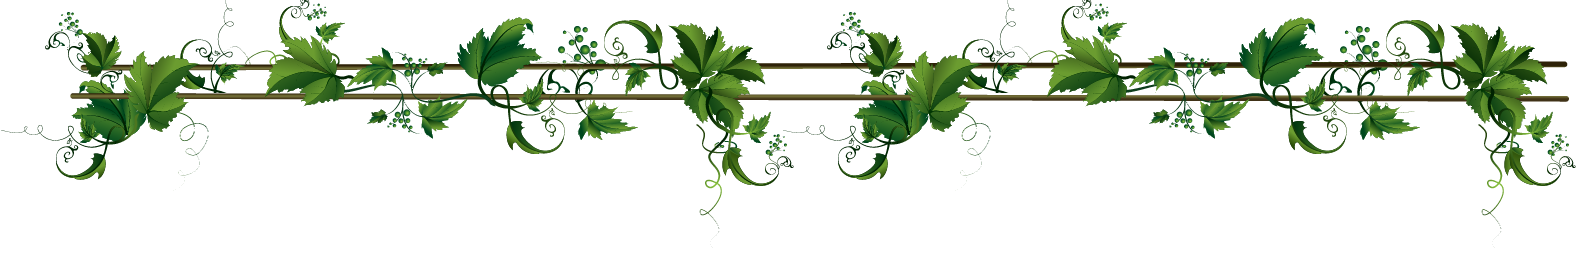
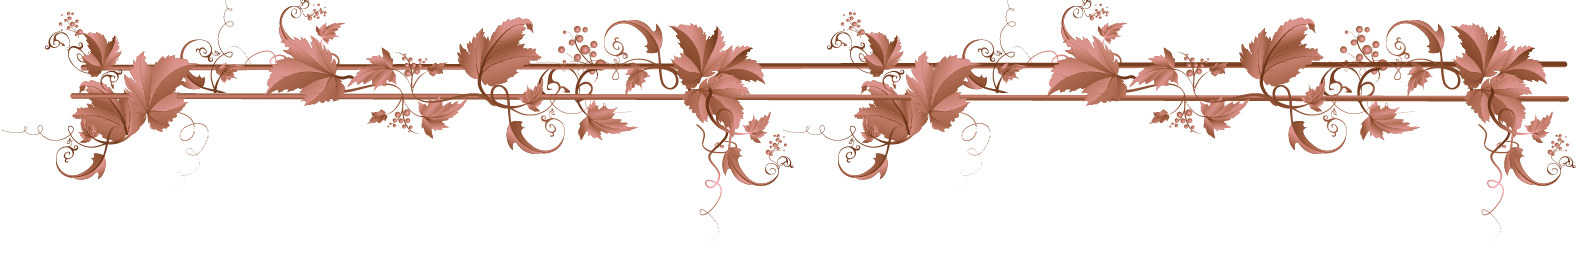
style: styled homepage and changed webpage theme

Changed region(s): [[0.0, 0.0, 1.0, 0.75]]

diff --git a/src/Containers/WelcomeScreen/WelcomeScreen.js b/src/Containers/WelcomeScreen/WelcomeScreen.js
@@ -1,11 +1,10 @@
 import React, { Component } from 'react'
 import Aux from '../../hoc/Aux'
 import './WelcomeScreen.css'
-import orange1 from '../../assets/pictures/green.png'
-import orange2 from '../../assets/pictures/orange.png'
-import orange3 from '../../assets/pictures/yellow.png'
-import background from '../../assets/pictures/background4.png'
-import Logo from '../../Components/Logo/Logo'
+import favourite from '../../assets/pictures/favouriteflower.png'
+import brown from '../../assets/pictures/brownflower.png'
+import newrecipe from '../../assets/pictures/newrecipe.png'
+import background from '../../assets/pictures/background8.jpeg'
 
 class Homescreen extends Component {
   goToCategories = () => {
@@ -19,14 +18,13 @@ class Homescreen extends Component {
   render() {
     return (
       <Aux>
-        <Logo screen='homepage'/>
         <div className="bg-color">
           <img src={background} alt="bg" className="bg"></img>
         </div>
         <div className='Homescreen'>
-          <div className='Button1' onClick={this.goToCategories}><img src={orange2} alt='bg'/></div>
-          <div className='Button2' ><img src={orange1} alt='bg'/></div>
-          <div className='Button3' onClick={this.goToAddRecipe}><img src={orange3} alt='bg'/></div>
+          <div className='Button1' onClick={this.goToCategories}><img src={brown} alt='bg'/></div>
+          <div className='Button2' ><img src={favourite} alt='bg'/></div>
+          <div className='Button3' onClick={this.goToAddRecipe}><img src={newrecipe} alt='bg'/></div>
         </div>
       </Aux>
     )

diff --git a/src/Components/Recipe/Recipe.css b/src/Components/Recipe/Recipe.css
@@ -2,7 +2,7 @@
   display: inline-block;
   width: 880px;
   height: 680px;
-  background-color: ivory;
+  background-color: rgb(245, 211, 197);
   border: 2px #eee;
   box-shadow: 0 12px 30px black;
   padding: 6px;
@@ -16,7 +16,7 @@
   display: inline-block;
   width: 880px;
   height: 72px;
-  background-color: ivory;
+  background-color: rgb(245, 211, 197);
   border: 2px #eee;
   box-shadow: 0 12px 30px black;
   padding: 6px;
@@ -39,7 +39,7 @@
   font-size: 20px;
   display: inline-block;
   width: 40%;
-  background-color: ivory;
+  background-color: rgb(245, 211, 197);
   border: 2px #eee;
   box-shadow: 0 12px 30px black;
   padding: 6px;
@@ -110,7 +110,7 @@
   font-size: 20px;
   display: inline-block;
   width: 40%;
-  background-color: ivory;
+  background-color: rgb(245, 211, 197);
   border: 2px #eee;
   box-shadow: 0 12px 30px black;
   padding: 6px;

diff --git a/src/Components/Navigation/NavigationItems/NavigationItem/NavigationItem.css b/src/Components/Navigation/NavigationItems/NavigationItem/NavigationItem.css
@@ -27,7 +27,7 @@
     height: 100%;
     width: auto;
     align-items: center;
-    font-size: larger;
+    font-size: 20px;
     font-family: monospace;
   }
 
@@ -36,13 +36,20 @@
     height: 100%;
     padding: 34px 10px;
     border-bottom: 4px solid transparent;
+    font-size: 24px;
+    font-family: Cambria, Cochin, Georgia, Times, 'Times New Roman', serif;
   }
 
-  .NavigationItem a:hover,
+  .NavigationItem a:hover {
+    background-color: rgb(245, 211, 197);
+  }
   .NavigationItem a:active,
   .NavigationItem a.active {
-    background-color: darkgreen;
-    border-bottom: 4px solid rgb(8, 11, 12);
+    background-image: url('../../../../assets/pictures/itemBorder.png');
+    background-size: cover;
+    background-repeat: no-repeat;
+    background-color: rgb(245, 211, 197);
+    border-bottom: 2px solid rgb(231, 117, 72);
     color: white;
   }
 }

diff --git a/src/Containers/DishCategory/DishCategory.js b/src/Containers/DishCategory/DishCategory.js
@@ -2,8 +2,7 @@ import React, { Component } from 'react'
 import Category from '../../Components/DishCategories/Category/Category'
 import Aux from '../../hoc/Aux'
 import Card from '../../Components/UI/Card/Card'
-import background from '../../assets/pictures/background7.png'
-import Logo from '../../Components/Logo/Logo'
+import background from '../../assets/pictures/background8.jpeg'
 import axios from '../../axios-recipes'
 import './DishCategory.css'
 
@@ -77,7 +76,6 @@ class DishCategory extends Component {
 
     return (
       <Aux>
-        <Logo screen='categories' style={{marginTop: '2px', marginLeft: '9px'}}/>
         <div className="bg-color">
           <img src={background} alt="bg" className="bg"></img>
         </div>

diff --git a/src/Components/Navigation/Toolbar/Toolbar.js b/src/Components/Navigation/Toolbar/Toolbar.js
@@ -1,12 +1,19 @@
 import React from 'react'
 import './Toolbar.css'
 import NavigationItems from '../NavigationItems/NavigationItems'
+import { withRouter } from 'react-router-dom'
 import Aux from '../../../hoc/Aux'
 
 const toolbar = (props) => {
+
+  const goToHomepage = () => {
+    props.history.push('/')
+  }
+
   return (
     <Aux>
       <div className='Toolbar'>
+        <div className='Ricipici' onClick={goToHomepage}></div>
         <NavigationItems />
         <div className='Menu' onClick={props.clicked}>MENU</div>
       </div>
@@ -15,4 +22,4 @@ const toolbar = (props) => {
   )
 }
 
-export default toolbar
+export default withRouter(toolbar)

diff --git a/src/Containers/AddRecipe/AddRecipe.js b/src/Containers/AddRecipe/AddRecipe.js
@@ -2,7 +2,6 @@ import React, { Component } from 'react'
 import Aux from '../../hoc/Aux'
 import Input from '../../Components/UI/Form/Form'
 import './AddRecipe.css'
-import Logo from '../../Components/Logo/Logo'
 import axios from '../../axios-recipes'
 
 class AddRecipe extends Component {
@@ -58,7 +57,6 @@ class AddRecipe extends Component {
 
     return (
       <Aux>
-        <Logo screen='add'/>
         <div className='AddRecipeForms'>
           <div className='bg-add'></div>
           <form onSubmit={this.handleSubmit}>

diff --git a/src/Components/Navigation/Toolbar/Toolbar.css b/src/Components/Navigation/Toolbar/Toolbar.css
@@ -18,6 +18,7 @@
   height: 50px;
   width: 100%;
   position: fixed;
+  opacity: 1;
   top: 0;
   left: -5px;
   background-image: url('../../../assets/pictures/toolbarbottom.png');
@@ -27,6 +28,14 @@
   background-size: contain;
   justify-content: stretch;
   box-sizing: border-box;
+}
+
+.Ricipici {
+  margin-top: -10px;
+  background-image: url('../../../assets/pictures/ricipici.png');
+  height: 86px;
+  width: 286px;
+  background-size: cover;
 }
 
 .Menu {

diff --git a/src/Containers/WelcomeScreen/WelcomeScreen.css b/src/Containers/WelcomeScreen/WelcomeScreen.css
@@ -7,16 +7,19 @@
 }
 
 .Button1 img{
+  opacity: 0.9;
   height: 30%;
   width: 30%;
 }
 
 .Button2 img{
-  height: 30%;
+  opacity: 0.8;
+  height: 20%;
   width: 30%;
 }
 
 .Button3 img{
+  opacity: 0.85;
   height: 30%;
   width: 30%;
 }

diff --git a/src/Components/DishCategories/Category/Category.css b/src/Components/DishCategories/Category/Category.css
@@ -2,7 +2,7 @@
   display: inline-block;
   width: 280px;
   height: 240px;
-  background-color: ivory;
+  background-color: rgb(245, 211, 197);
   border: 2px #eee;
   box-shadow: 0 12px 30px black;
   padding: 6px;

diff --git a/src/Components/UI/Card/Card.css b/src/Components/UI/Card/Card.css
@@ -2,7 +2,7 @@
   display: inline-block;
   width: 280px;
   height: 240px;
-  background-color: ivory;
+  background-color: rgb(245, 211, 197);
   border: 2px #eee;
   box-shadow: 0 32px 44px black;
   padding: 6px;

diff --git a/src/Components/UI/Button/Button.css b/src/Components/UI/Button/Button.css
@@ -1,6 +1,6 @@
 .Button {
   box-sizing: border-box;
-  background-color: ivory;
+  background-color: rgb(245, 211, 197);
   border-radius: 8px;
   border: 1px #eee;
   box-shadow: 0 4px 8px black;

diff --git a/src/App.css b/src/App.css
@@ -5,7 +5,7 @@
 img.bg {
   min-height: 100%;
   min-width: 1024px;
-  opacity: 0.5;
+  opacity: 0.6;
   width: 100%;
   height: auto;
   position: fixed;
